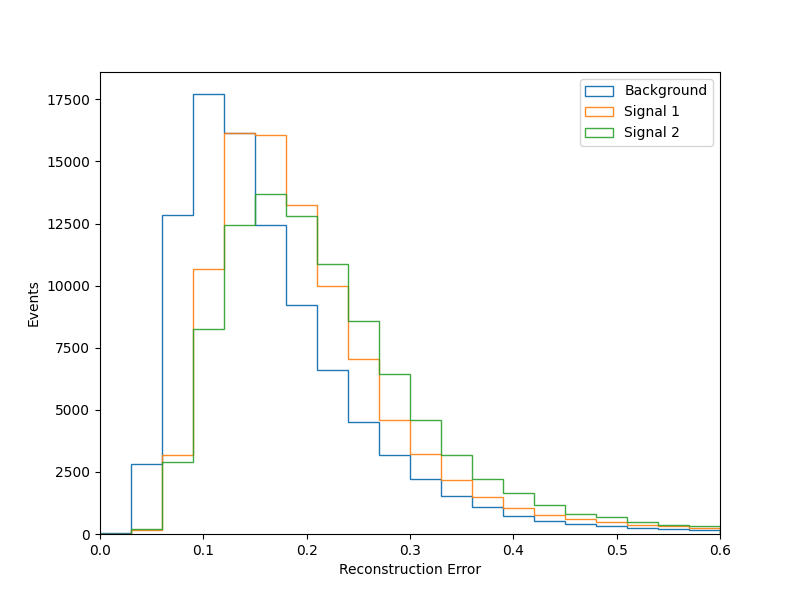
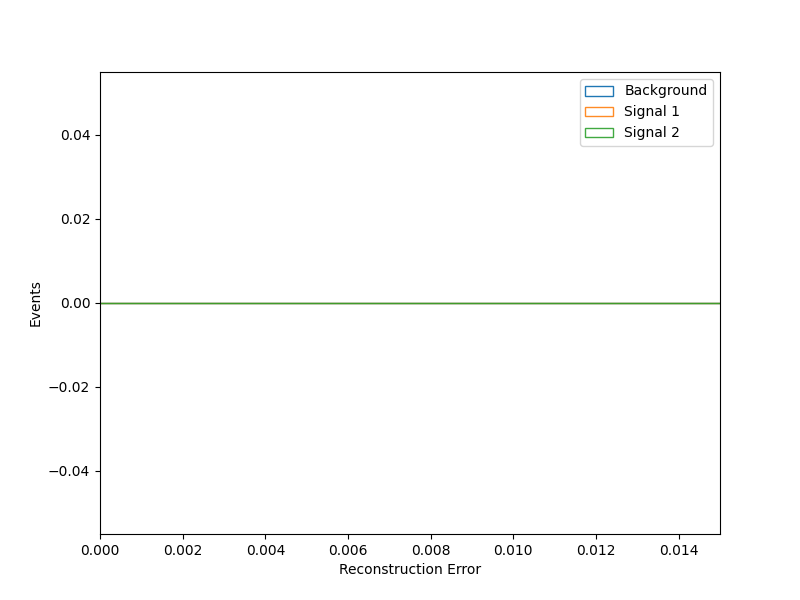
Testing with standard scaling and 21, 14 layer dimensions

diff --git a/test.py b/test.py
@@ -131,12 +131,12 @@ loss_sig2_total = loss_sig2.sum(axis=1) / 42
 # Plot Total Reconstruction Error
 nbins = 20
 fig, axes = plt.subplots(figsize=(8,6))
-axes.hist([loss_bkg_total], nbins, range=(0, 0.6), density=0, histtype='step', label=['Background'], stacked=True, alpha=1)
-axes.hist([loss_sig1_total], nbins, range=(0, 0.6), density=0, histtype='step', label=['Signal 1'], stacked=True, alpha=0.9)
-axes.hist([loss_sig2_total], nbins, range=(0, 0.6), density=0, histtype='step', label=['Signal 2'], stacked=True, alpha=0.9)
+axes.hist([loss_bkg_total], nbins, range=(0, 0.02), density=0, histtype='step', label=['Background'], stacked=True, alpha=1)
+axes.hist([loss_sig1_total], nbins, range=(0, 0.02), density=0, histtype='step', label=['Signal 1'], stacked=True, alpha=0.9)
+axes.hist([loss_sig2_total], nbins, range=(0, 0.02), density=0, histtype='step', label=['Signal 2'], stacked=True, alpha=0.9)
 axes.set_xlabel(r"Reconstruction Error")
 axes.set_ylabel("Events")
-axes.set_xlim(0, 0.6)
+axes.set_xlim(0, 0.02)
 axes.legend(loc='upper right')
 fig.savefig(f"figs/testing/reconstruction_error_{scale}_{mid_dim}_{latent_dim}.png")
 
@@ -234,5 +234,5 @@ axes.set_xlabel(r"$m_{jet_1•jet_2}$")
 axes.set_ylabel("Reconstruction Error")
 axes.set_title(f"Distribution for {scale}, m={mid_dim}, l={latent_dim}")
 axes.set_yscale("log")
-axes.legend()
+# axes.legend()
 fig.savefig(f"figs/testing/reco_mass_{scale}_{mid_dim}_{latent_dim}.png")
